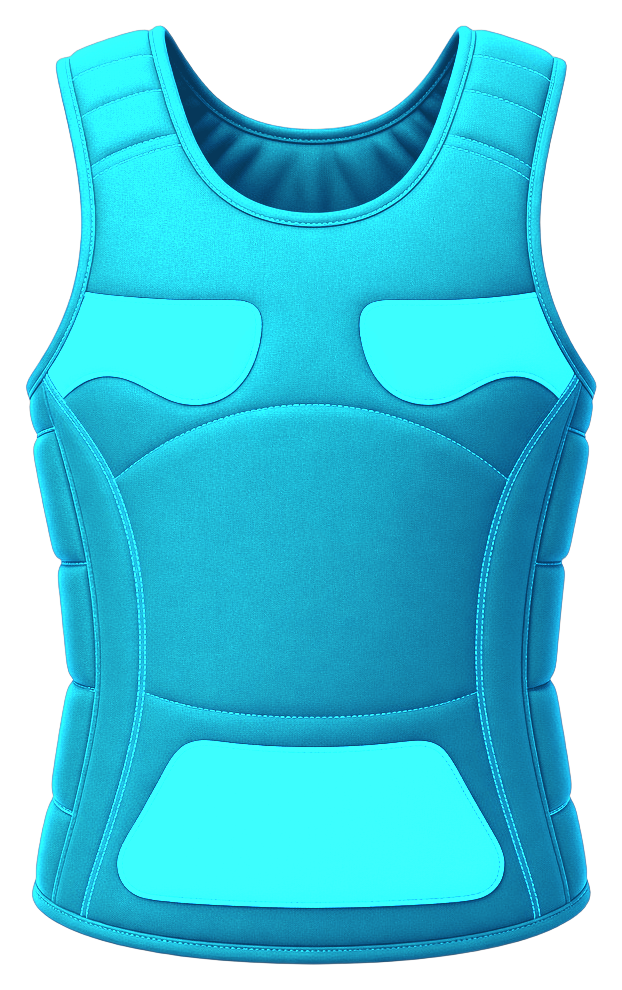
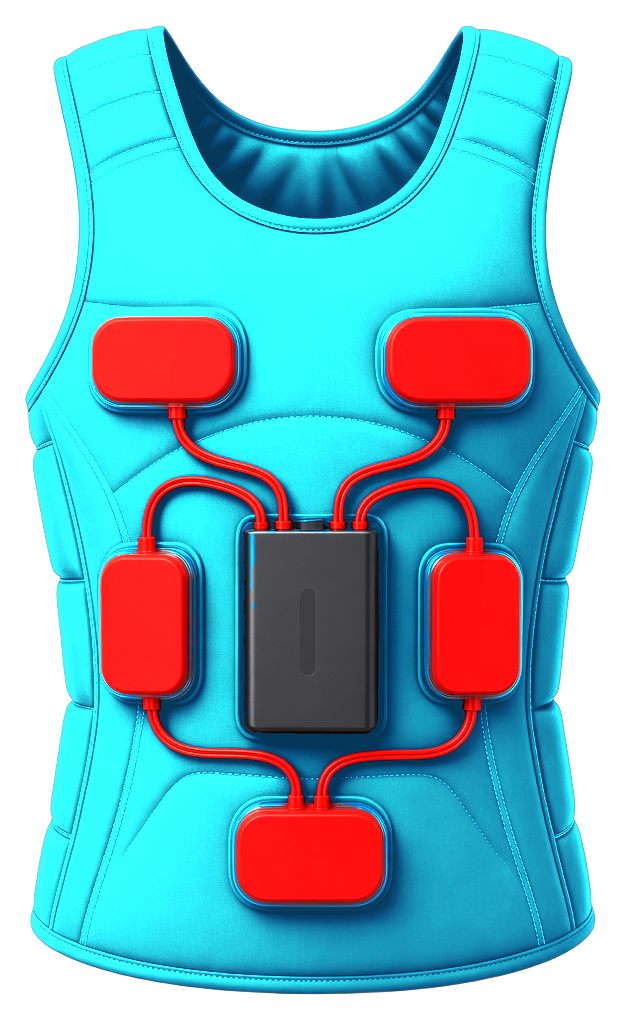
Pull molded red actuator vest PNGs and drop flat pad overlays.
Import photoreal frames, shells, and pad/battery overlays from the image
agent branch. Interactive rotate uses baked hardware frames; hotspots are
clear hit targets over molded pads instead of flat SVG squares.

diff --git a/components/marketing/vest-actuator-pad.tsx b/components/marketing/vest-actuator-pad.tsx
@@ -1,134 +1,63 @@
 "use client";
 
-import { useId } from "react";
+import Image from "next/image";
+import { VEST_PAD_OVERLAY_PATH } from "@/lib/marketing/vest-assets";
 
 type VestActuatorPadProps = {
   selected?: boolean;
+  /**
+   * `photo` — molded pad PNG (shell compositing).
+   * `hit` — clear click target over baked pads; selected ring only (default).
+   */
+  mode?: "photo" | "hit";
   className?: string;
 };
 
 /**
- * Hardware-style red comfort actuator pad — distinct rim, beveled face,
- * center contact, mounting lugs. Not a soft glow blob.
+ * Molded red actuator pad control. Default `hit` mode sits over baked
+ * hardware frames without covering them with flat SVG squares. `photo`
+ * mode uses the image-agent cutout for shell compositing.
  */
 export function VestActuatorPad({
   selected = false,
+  mode = "hit",
   className = "",
 }: VestActuatorPadProps) {
-  const uid = useId().replace(/:/g, "");
-  const face = `padFace-${uid}`;
-  const rim = `padRim-${uid}`;
-  const contact = `padContact-${uid}`;
+  if (mode === "photo") {
+    return (
+      <span
+        aria-hidden
+        className={`relative block h-12 w-12 md:h-14 md:w-14 ${className}`}
+      >
+        <Image
+          src={VEST_PAD_OVERLAY_PATH}
+          alt=""
+          fill
+          sizes="56px"
+          draggable={false}
+          className={`object-contain transition duration-150 ${
+            selected
+              ? "scale-110 drop-shadow-[0_0_0_3px_var(--color-vest-wire-bright)] brightness-110"
+              : "drop-shadow-[0_2px_4px_rgba(11,30,27,0.35)]"
+          }`}
+        />
+      </span>
+    );
+  }
 
   return (
     <span
       aria-hidden
-      className={`relative block h-11 w-11 md:h-12 md:w-12 ${className}`}
+      className={`relative block h-11 w-14 md:h-12 md:w-16 ${className}`}
     >
-      <svg viewBox="0 0 48 48" className="h-full w-full">
-        <defs>
-          <linearGradient id={face} x1="0%" y1="0%" x2="0%" y2="100%">
-            <stop offset="0%" stopColor={selected ? "#ff5a6e" : "#f02438"} />
-            <stop offset="40%" stopColor={selected ? "#e11d2e" : "#c4122a"} />
-            <stop offset="100%" stopColor="#6e0c18" />
-          </linearGradient>
-          <linearGradient id={rim} x1="0%" y1="0%" x2="0%" y2="100%">
-            <stop offset="0%" stopColor="#3a070e" />
-            <stop offset="100%" stopColor="#140206" />
-          </linearGradient>
-          <linearGradient id={contact} x1="20%" y1="15%" x2="80%" y2="90%">
-            <stop offset="0%" stopColor="#ff9aa6" />
-            <stop offset="50%" stopColor="#ff2d4a" />
-            <stop offset="100%" stopColor="#7a0c18" />
-          </linearGradient>
-        </defs>
-
-        {/* Hard outer chassis — squared, not a blob */}
-        <rect
-          x="1.5"
-          y="1.5"
-          width="45"
-          height="45"
-          rx="5"
-          fill={`url(#${rim})`}
-          stroke="#ff2d4a"
-          strokeWidth="1.8"
-        />
-        {/* Beveled plate */}
-        <rect
-          x="5.5"
-          y="5.5"
-          width="37"
-          height="37"
-          rx="3.5"
-          fill={`url(#${face})`}
-          stroke="#ffb0b8"
-          strokeWidth="1.1"
-        />
-        {/* Recessed well */}
-        <rect
-          x="11"
-          y="11"
-          width="26"
-          height="26"
-          rx="2.5"
-          fill="#4a0810"
-          stroke="#2a050a"
-          strokeWidth="1"
-        />
-        {/* Square contact plate (hardware, not soft disc) */}
-        <rect
-          x="16"
-          y="16"
-          width="16"
-          height="16"
-          rx="2"
-          fill={`url(#${contact})`}
-          stroke="#3a070e"
-          strokeWidth="1.1"
-        />
-        <rect x="20" y="20" width="8" height="8" rx="1" fill="#fff5f6" opacity="0.35" />
-
-        {/* Crosshair etch for pad readability */}
-        <line x1="24" y1="17.5" x2="24" y2="30.5" stroke="#5a0a14" strokeWidth="0.7" />
-        <line x1="17.5" y1="24" x2="30.5" y2="24" stroke="#5a0a14" strokeWidth="0.7" />
-
-        {/* Corner screws */}
-        <circle cx="9" cy="9" r="1.7" fill="#1a0508" stroke="#ff6b7d" strokeWidth="0.7" />
-        <circle cx="39" cy="9" r="1.7" fill="#1a0508" stroke="#ff6b7d" strokeWidth="0.7" />
-        <circle cx="9" cy="39" r="1.7" fill="#1a0508" stroke="#ff6b7d" strokeWidth="0.7" />
-        <circle cx="39" cy="39" r="1.7" fill="#1a0508" stroke="#ff6b7d" strokeWidth="0.7" />
-        <line x1="7.8" y1="9" x2="10.2" y2="9" stroke="#ffb0b8" strokeWidth="0.45" />
-        <line x1="9" y1="7.8" x2="9" y2="10.2" stroke="#ffb0b8" strokeWidth="0.45" />
-        <line x1="37.8" y1="9" x2="40.2" y2="9" stroke="#ffb0b8" strokeWidth="0.45" />
-        <line x1="39" y1="7.8" x2="39" y2="10.2" stroke="#ffb0b8" strokeWidth="0.45" />
-
-        {/* Bottom wire crimp terminal */}
-        <rect
-          x="19"
-          y="41.5"
-          width="10"
-          height="4.2"
-          rx="0.7"
-          fill="#1a0508"
-          stroke="#ff2d4a"
-          strokeWidth="0.9"
-        />
-        <rect x="21.5" y="42.5" width="5" height="2" rx="0.3" fill="#e11d2e" />
-
-        {selected ? (
-          <rect
-            x="0.5"
-            y="0.5"
-            width="47"
-            height="47"
-            rx="5.5"
-            fill="none"
-            stroke="#ff2d4a"
-            strokeWidth="2.2"
-          />
-        ) : null}
-      </svg>
+      {/* Invisible hit footprint matching molded rectangular pads */}
+      <span
+        className={`absolute inset-0 rounded-[0.65rem] border-[3px] transition ${
+          selected
+            ? "border-[var(--color-vest-wire-bright)] bg-[color-mix(in_oklab,var(--color-vest-wire)_22%,transparent)] shadow-[0_0_0_2px_rgba(255,45,74,0.35)]"
+            : "border-transparent bg-transparent hover:border-[color-mix(in_oklab,var(--color-vest-wire)_70%,transparent)] hover:bg-[color-mix(in_oklab,var(--color-vest-wire)_12%,transparent)]"
+        }`}
+      />
     </span>
   );
 }

diff --git a/lib/marketing/vest-assets.ts b/lib/marketing/vest-assets.ts
@@ -1,14 +1,28 @@
 /**
- * CalmIq image-vest asset contract.
- * Image agent: drop bg-removed blue PNGs at these public paths
- * (and optionally under /cursor/stores/self/media/image-vest/).
- * Component auto-uses whatever is present; swap files without code changes.
+ * CalmIq image-vest asset contract (see internal/image-vest-sources.md).
+ * Image agent drops bg-removed PNGs here; swap files without code changes.
  */
+
+/** Baked hardware frames — blue shell + Li-ion + red wires + molded red pads. */
 export const VEST_FRAME_PATHS = [
   "/images/vest-front.png",
   "/images/vest-three-quarter.png",
   "/images/vest-side.png",
 ] as const;
+
+/** Shell-only frames (no battery/wires/pads) for optional compositing. */
+export const VEST_SHELL_FRAME_PATHS = [
+  "/images/comfort-vest-blue-shell-front.png",
+  "/images/comfort-vest-blue-shell-threequarter.png",
+  "/images/comfort-vest-blue-shell-side.png",
+] as const;
+
+/** Single molded red actuator pad cutout (clickable hotspot visual). */
+export const VEST_PAD_OVERLAY_PATH = "/images/vest-overlay-actuator-pad.png";
+
+/** Lithium pack cutout for compositing on shells. */
+export const VEST_BATTERY_OVERLAY_PATH =
+  "/images/comfort-vest-overlay-battery.png";
 
 /** Buy-page person-wearing-vest asset — replaceable by image agent. */
 export const VEST_WORN_PATH = "/images/vest-worn.png";
@@ -22,19 +36,19 @@ export type VestZoneId =
 
 export type VestHotspot = {
   id: VestZoneId;
-  /** Percent of stage width/height — consistent hardware pad layout. */
+  /** Percent of stage width/height — aligned to baked molded pads. */
   x: number;
   y: number;
 };
 
 /**
- * Actuator pad anchors on the vest silhouette.
- * Symmetric L/R where useful; battery sits mid-torso (~50, 58).
+ * Actuator anchors matching baked front-frame pad layout
+ * (upper L/R, mid L/R, lower center; battery ~50/62).
  */
 export const VEST_HOTSPOTS: VestHotspot[] = [
-  { id: "traps", x: 50, y: 26 },
-  { id: "shoulders", x: 27, y: 36 },
-  { id: "chest", x: 50, y: 44 },
-  { id: "midBack", x: 73, y: 36 },
-  { id: "lowerBack", x: 50, y: 74 },
+  { id: "traps", x: 36, y: 30 },
+  { id: "shoulders", x: 64, y: 30 },
+  { id: "chest", x: 36, y: 54 },
+  { id: "midBack", x: 64, y: 54 },
+  { id: "lowerBack", x: 50, y: 80 },
 ];

diff --git a/components/marketing/image-vest.tsx b/components/marketing/image-vest.tsx
@@ -46,13 +46,16 @@ function usePrefersReducedMotion() {
 }
 
 /**
- * Photoreal blue vest cutout — drag/click-rotate through angle frames,
- * red Li-ion wiring, red actuator hotspots with body-zone info (EN+UR).
+ * Photoreal blue vest cutout — drag/click-rotate through baked hardware
+ * frames (molded red pads + Li-ion + red wires in the PNG). Hotspots use
+ * the molded pad overlay image. Optional SVG wiring only when compositing
+ * on shell frames (showWiring).
  */
 export function ImageVest({
   label,
   showHotspots = true,
-  showWiring = true,
+  /** Baked frames already include Li-ion + red leads — off by default. */
+  showWiring = false,
   priority = true,
   className = "",
 }: ImageVestProps) {
@@ -187,10 +190,13 @@ export function ImageVest({
                         e.stopPropagation();
                         setActiveZone((prev) => (prev === spot.id ? null : spot.id));
                       }}
-                      className="absolute z-10 -translate-x-1/2 -translate-y-1/2 rounded-[0.55rem] transition hover:scale-105 focus-visible:outline focus-visible:outline-2 focus-visible:outline-offset-2 focus-visible:outline-[var(--color-vest-wire)] active:scale-95"
+                      className="absolute z-10 -translate-x-1/2 -translate-y-1/2 rounded-full transition hover:scale-105 focus-visible:outline focus-visible:outline-2 focus-visible:outline-offset-2 focus-visible:outline-[var(--color-vest-wire)] active:scale-95"
                       style={{ left: `${spot.x}%`, top: `${spot.y}%` }}
                     >
-                      <VestActuatorPad selected={selected} />
+                      <VestActuatorPad
+                        selected={selected}
+                        mode={showWiring ? "photo" : "hit"}
+                      />
                     </button>
                   );
                 })

diff --git a/components/marketing/pricing-vest-stage.tsx b/components/marketing/pricing-vest-stage.tsx
@@ -67,7 +67,7 @@ export function PricingVestStage({ label }: PricingVestStageProps) {
 
       <div className="relative min-h-0 flex-1 touch-none">
         {view === "product" ? (
-          <ImageVest label={label} showHotspots />
+          <ImageVest label={label} showHotspots showWiring={false} />
         ) : (
           <WornVestStage label={t("wornLabel")} showWiring={false} />
         )}

diff --git a/components/marketing/worn-vest-stage.tsx b/components/marketing/worn-vest-stage.tsx
@@ -57,7 +57,7 @@ export function WornVestStage({
                   className="pointer-events-none absolute z-10 -translate-x-1/2 -translate-y-1/2"
                   style={{ left: `${spot.x}%`, top: `${spot.y}%` }}
                 >
-                  <VestActuatorPad />
+                  <VestActuatorPad mode="photo" />
                 </span>
               ))}
             </>
